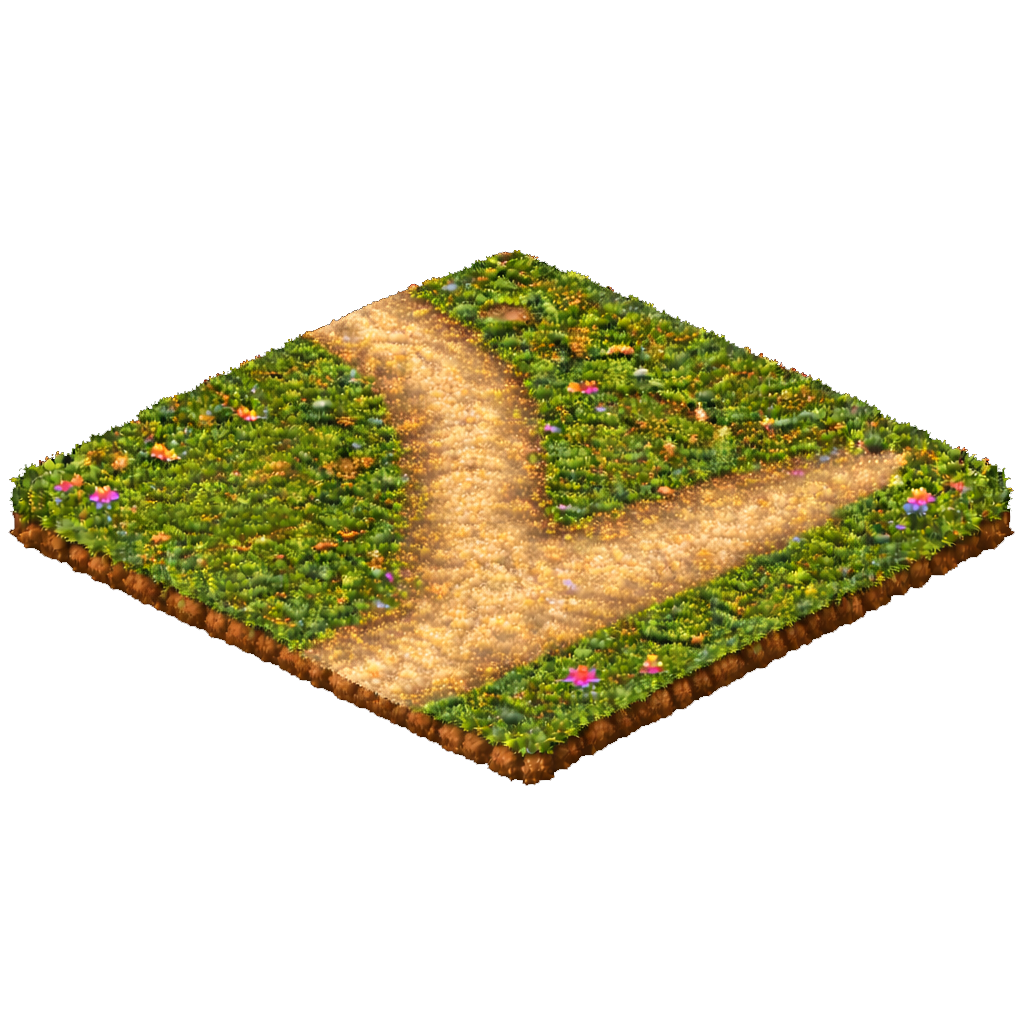
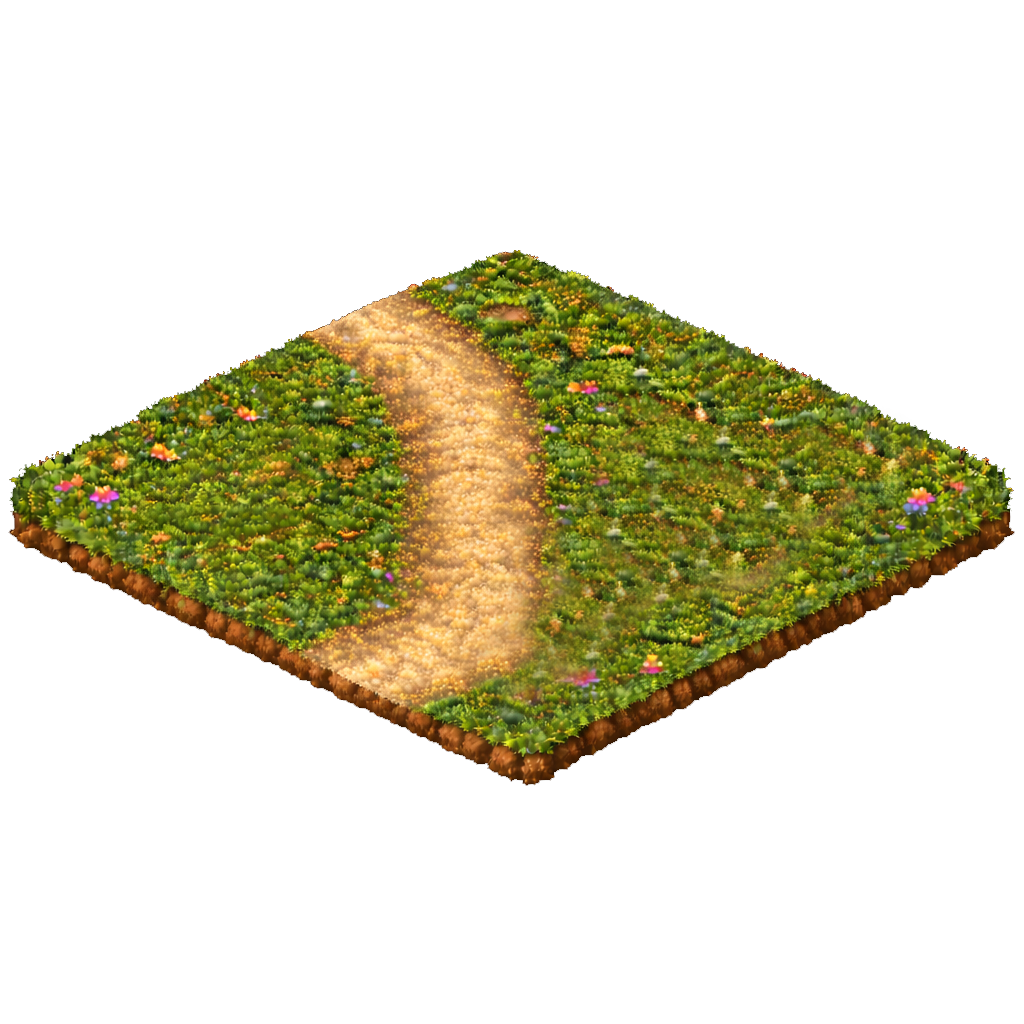
Ajustar flecha y colisión agua

Changed region(s): [[0.4688, 0.4062, 0.9062, 0.6875]]

diff --git a/public/index.js b/public/index.js
@@ -184,9 +184,10 @@ function drawArrow(fromIso, toIso) {
 
   const ux = dx / len;
   const uy = dy / len;
-  const headSize = 7;
-  const baseX = toIso.x - ux * (headSize * 1.5);
-  const baseY = toIso.y - uy * (headSize * 1.5);
+  const headLength = 12;
+  const headHalfWidth = 5;
+  const baseX = toIso.x - ux * headLength;
+  const baseY = toIso.y - uy * headLength;
   const nx = -uy;
   const ny = ux;
 
@@ -204,20 +205,16 @@ function drawArrow(fromIso, toIso) {
   gameCtx.lineTo(baseX, baseY);
   gameCtx.stroke();
 
-  gameCtx.fillStyle = "#ffffff";
-  gameCtx.beginPath();
-  gameCtx.moveTo(toIso.x, toIso.y);
-  gameCtx.lineTo(baseX + nx * headSize * 0.65, baseY + ny * headSize * 0.65);
-  gameCtx.lineTo(baseX - nx * headSize * 0.65, baseY - ny * headSize * 0.65);
-  gameCtx.closePath();
-  gameCtx.fill();
-
   gameCtx.fillStyle = "#22c55e";
+  gameCtx.strokeStyle = "#ffffff";
+  gameCtx.lineWidth = 3;
+  gameCtx.lineJoin = "round";
   gameCtx.beginPath();
   gameCtx.moveTo(toIso.x, toIso.y);
-  gameCtx.lineTo(baseX + nx * headSize * 0.5, baseY + ny * headSize * 0.5);
-  gameCtx.lineTo(baseX - nx * headSize * 0.5, baseY - ny * headSize * 0.5);
+  gameCtx.lineTo(baseX + nx * headHalfWidth, baseY + ny * headHalfWidth);
+  gameCtx.lineTo(baseX - nx * headHalfWidth, baseY - ny * headHalfWidth);
   gameCtx.closePath();
+  gameCtx.stroke();
   gameCtx.fill();
 }
 
